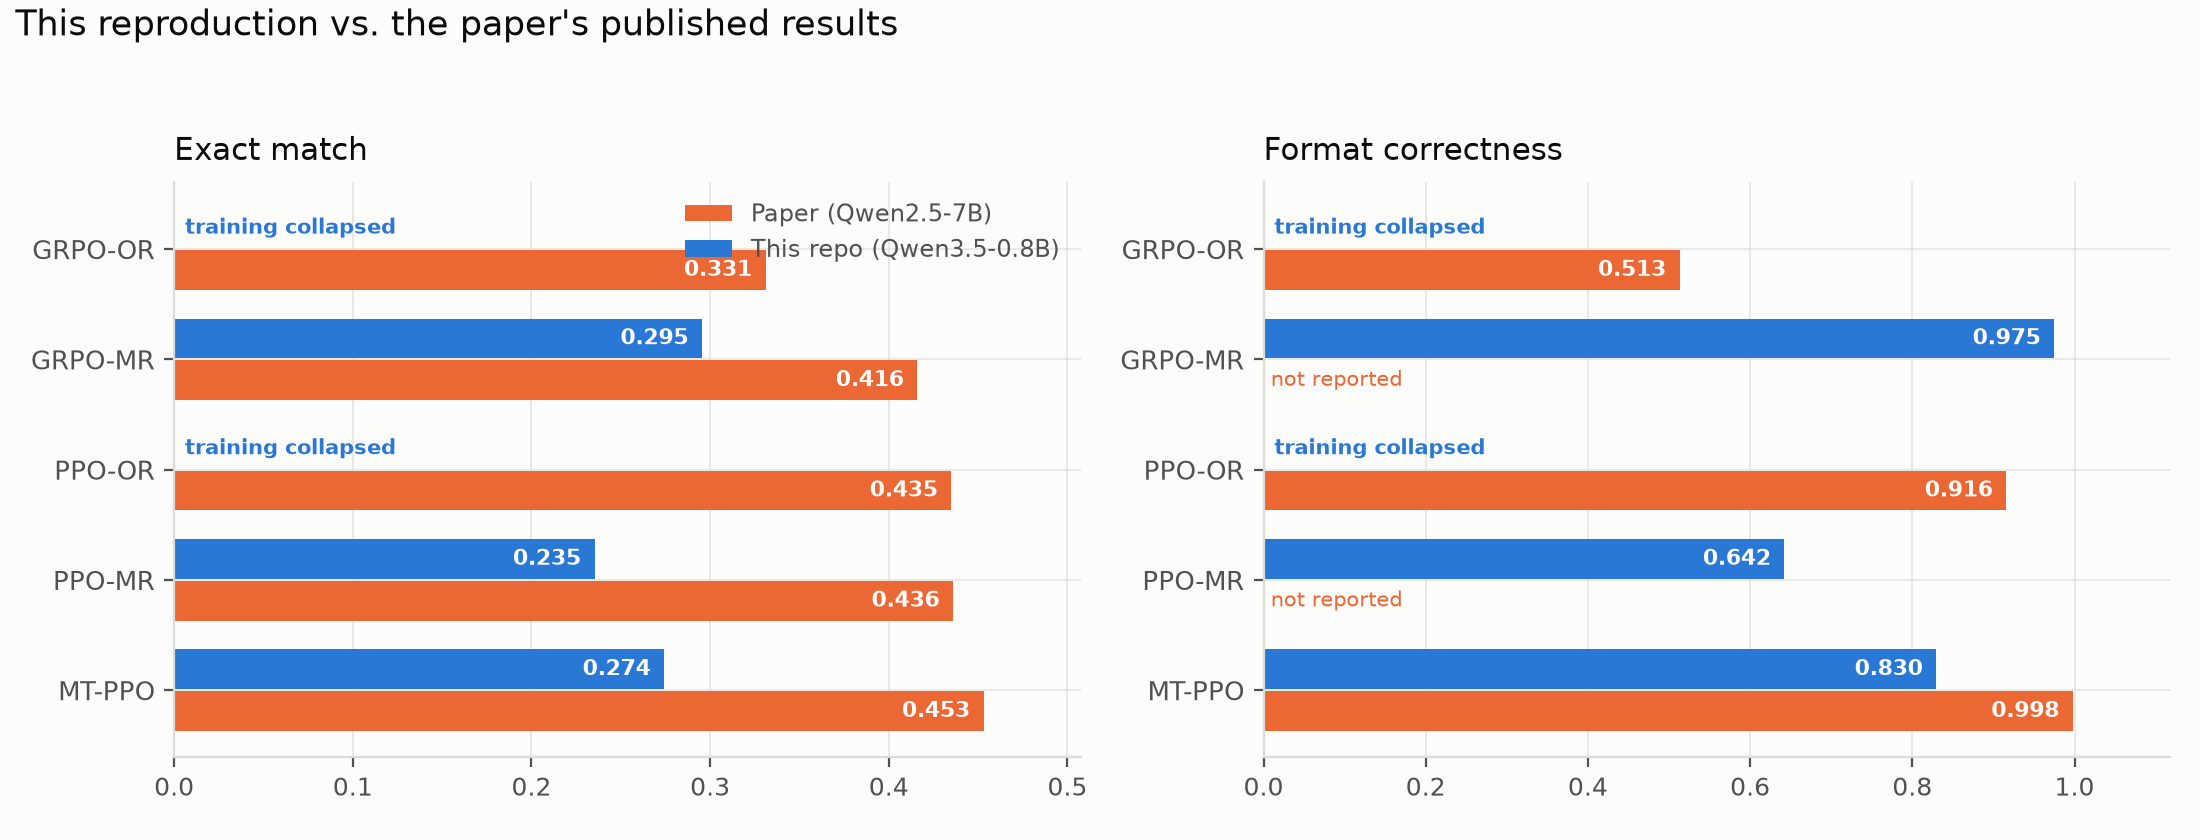
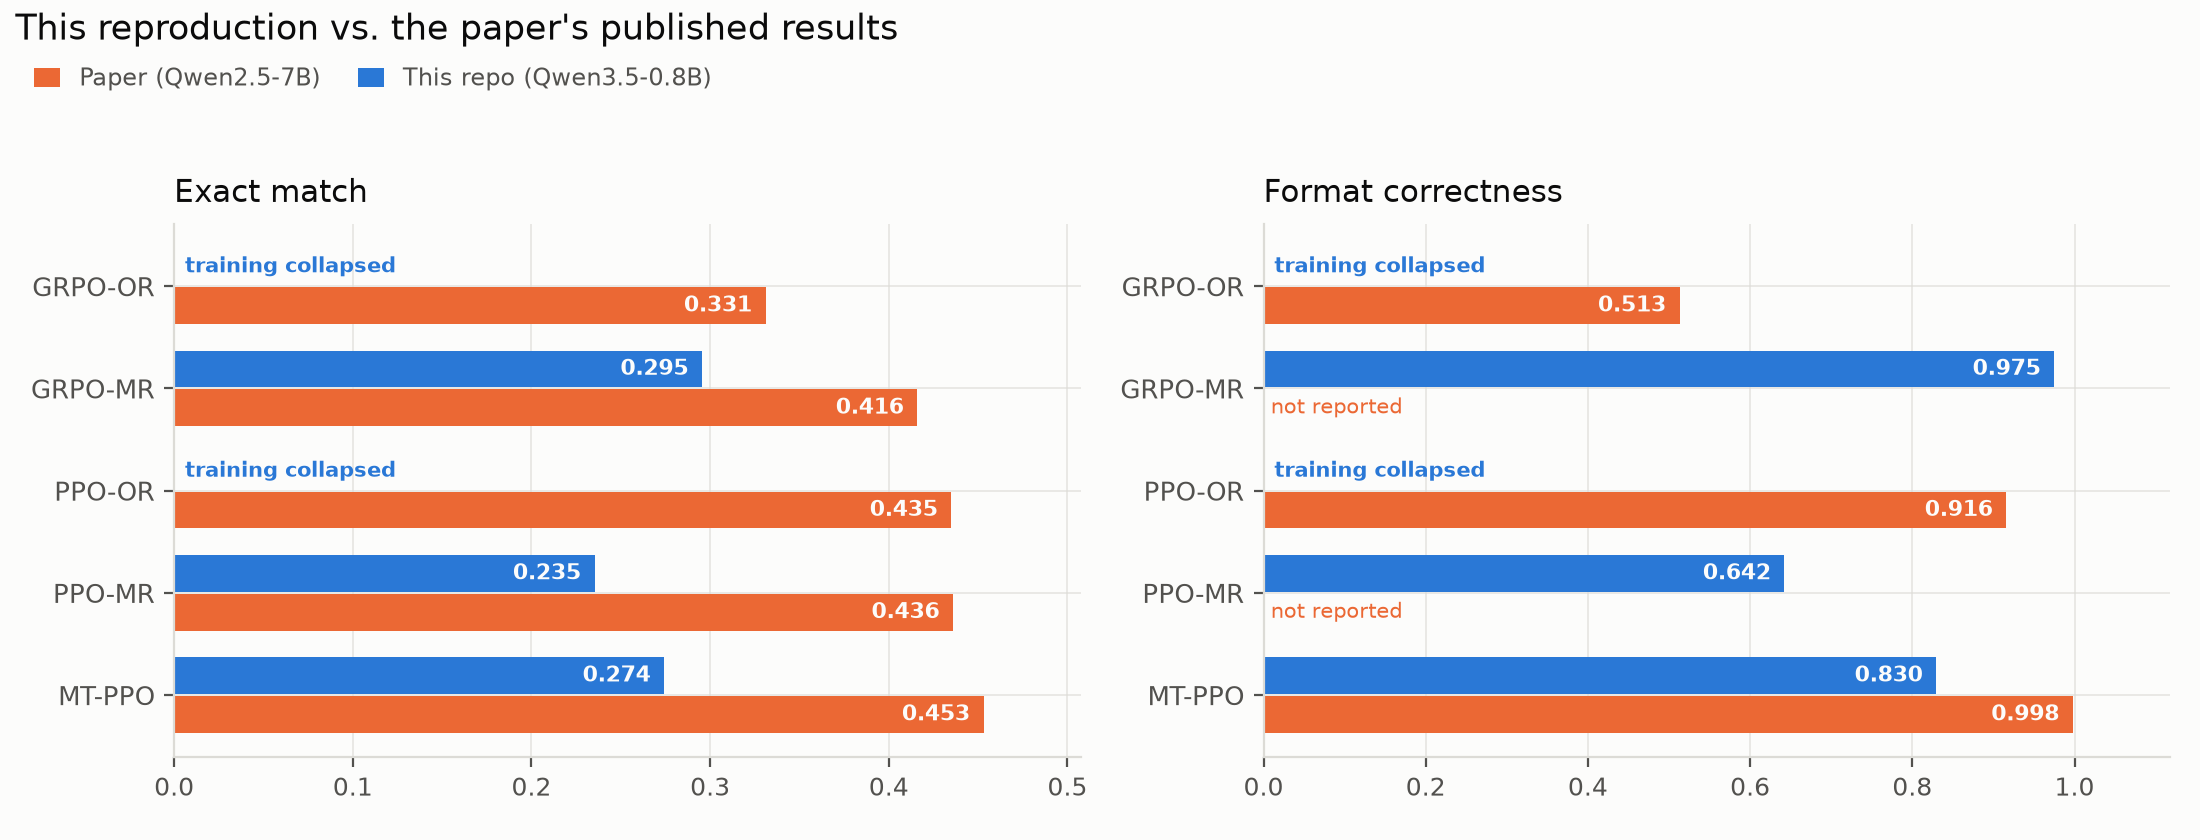
Move the chart legend out of the plot area
Adding value labels left the exact-match axes with no free corner -- every
region holds a bar, a value, or a collapsed-arm note -- so the in-axes legend
crowded whatever it sat next to, wherever it was put.

It is now a figure-level horizontal key under the title, left-aligned with it.
That also reads better across two panels: one legend for the figure rather than
one apparently belonging to the left panel.

diff --git a/scripts/plot_phase7c.py b/scripts/plot_phase7c.py
@@ -148,20 +148,32 @@ def plot_vs_paper(summary: dict, out: Path) -> None:
         ax.set_xlim(0, span)
         ax.set_title(title, fontsize=11, color=INK, pad=8, loc="left")
 
-    # Top-right: the bottom rows are the longest bars in both panels, and the top row's own bar is
-    # short because its collapsed partner leaves that half of the row empty.
-    em_ax.legend(frameon=False, fontsize=8.5, loc="upper right", labelcolor=INK_SOFT)
     fig.suptitle(
         "This reproduction vs. the paper's published results",
         fontsize=12.5,
         color=INK,
         x=0.007,
         ha="left",
-        y=0.99,
+        y=0.985,
+    )
+    # Figure-level and horizontal, under the title rather than inside a panel. Every corner of the
+    # exact-match axes is occupied -- bars, value labels, or the collapsed-arm notes -- so an
+    # in-axes legend has nowhere to sit without crowding something.
+    fig.legend(
+        *em_ax.get_legend_handles_labels(),
+        loc="upper left",
+        bbox_to_anchor=(0.006, 0.945),
+        ncol=2,
+        frameon=False,
+        fontsize=8.5,
+        labelcolor=INK_SOFT,
+        handlelength=1.1,
+        handleheight=0.9,
+        columnspacing=1.6,
     )
     # No footnote: the in-chart "collapsed" labels already say which arms died, and the surrounding
     # prose carries the model-size caveat. Repeating either here just competes with the bars.
-    fig.tight_layout(rect=(0, 0.01, 1, 0.95))
+    fig.tight_layout(rect=(0, 0.01, 1, 0.90))
     fig.savefig(out, dpi=200, facecolor=SURFACE)
     plt.close(fig)
 
